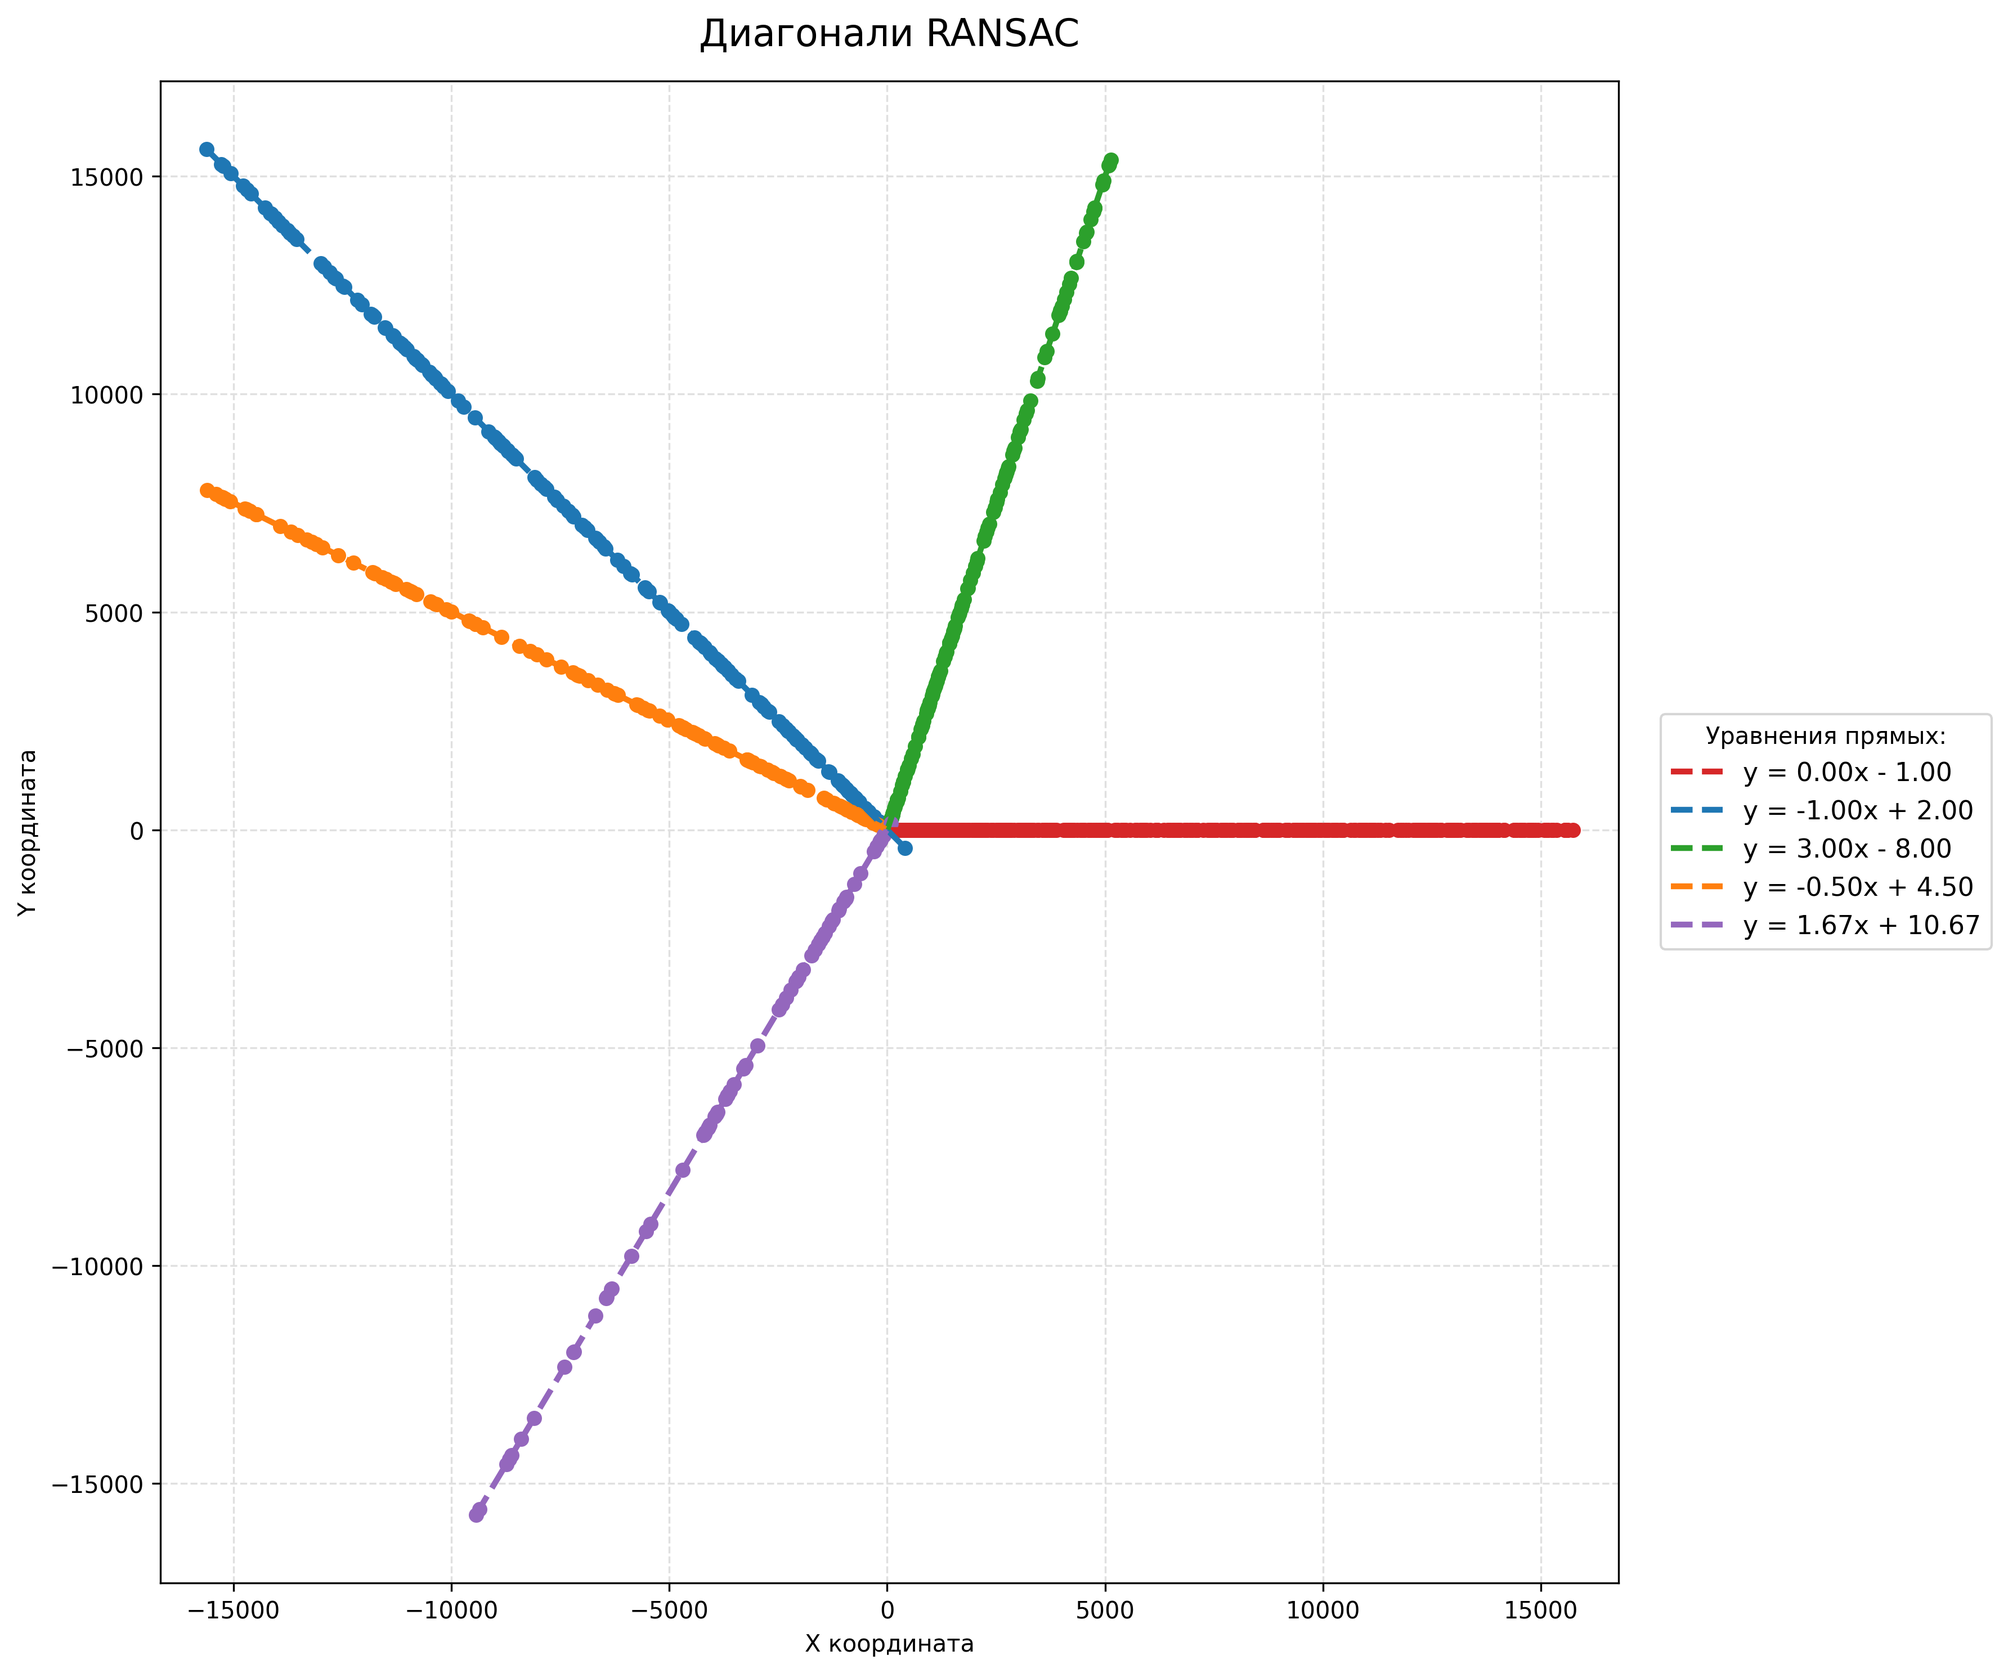
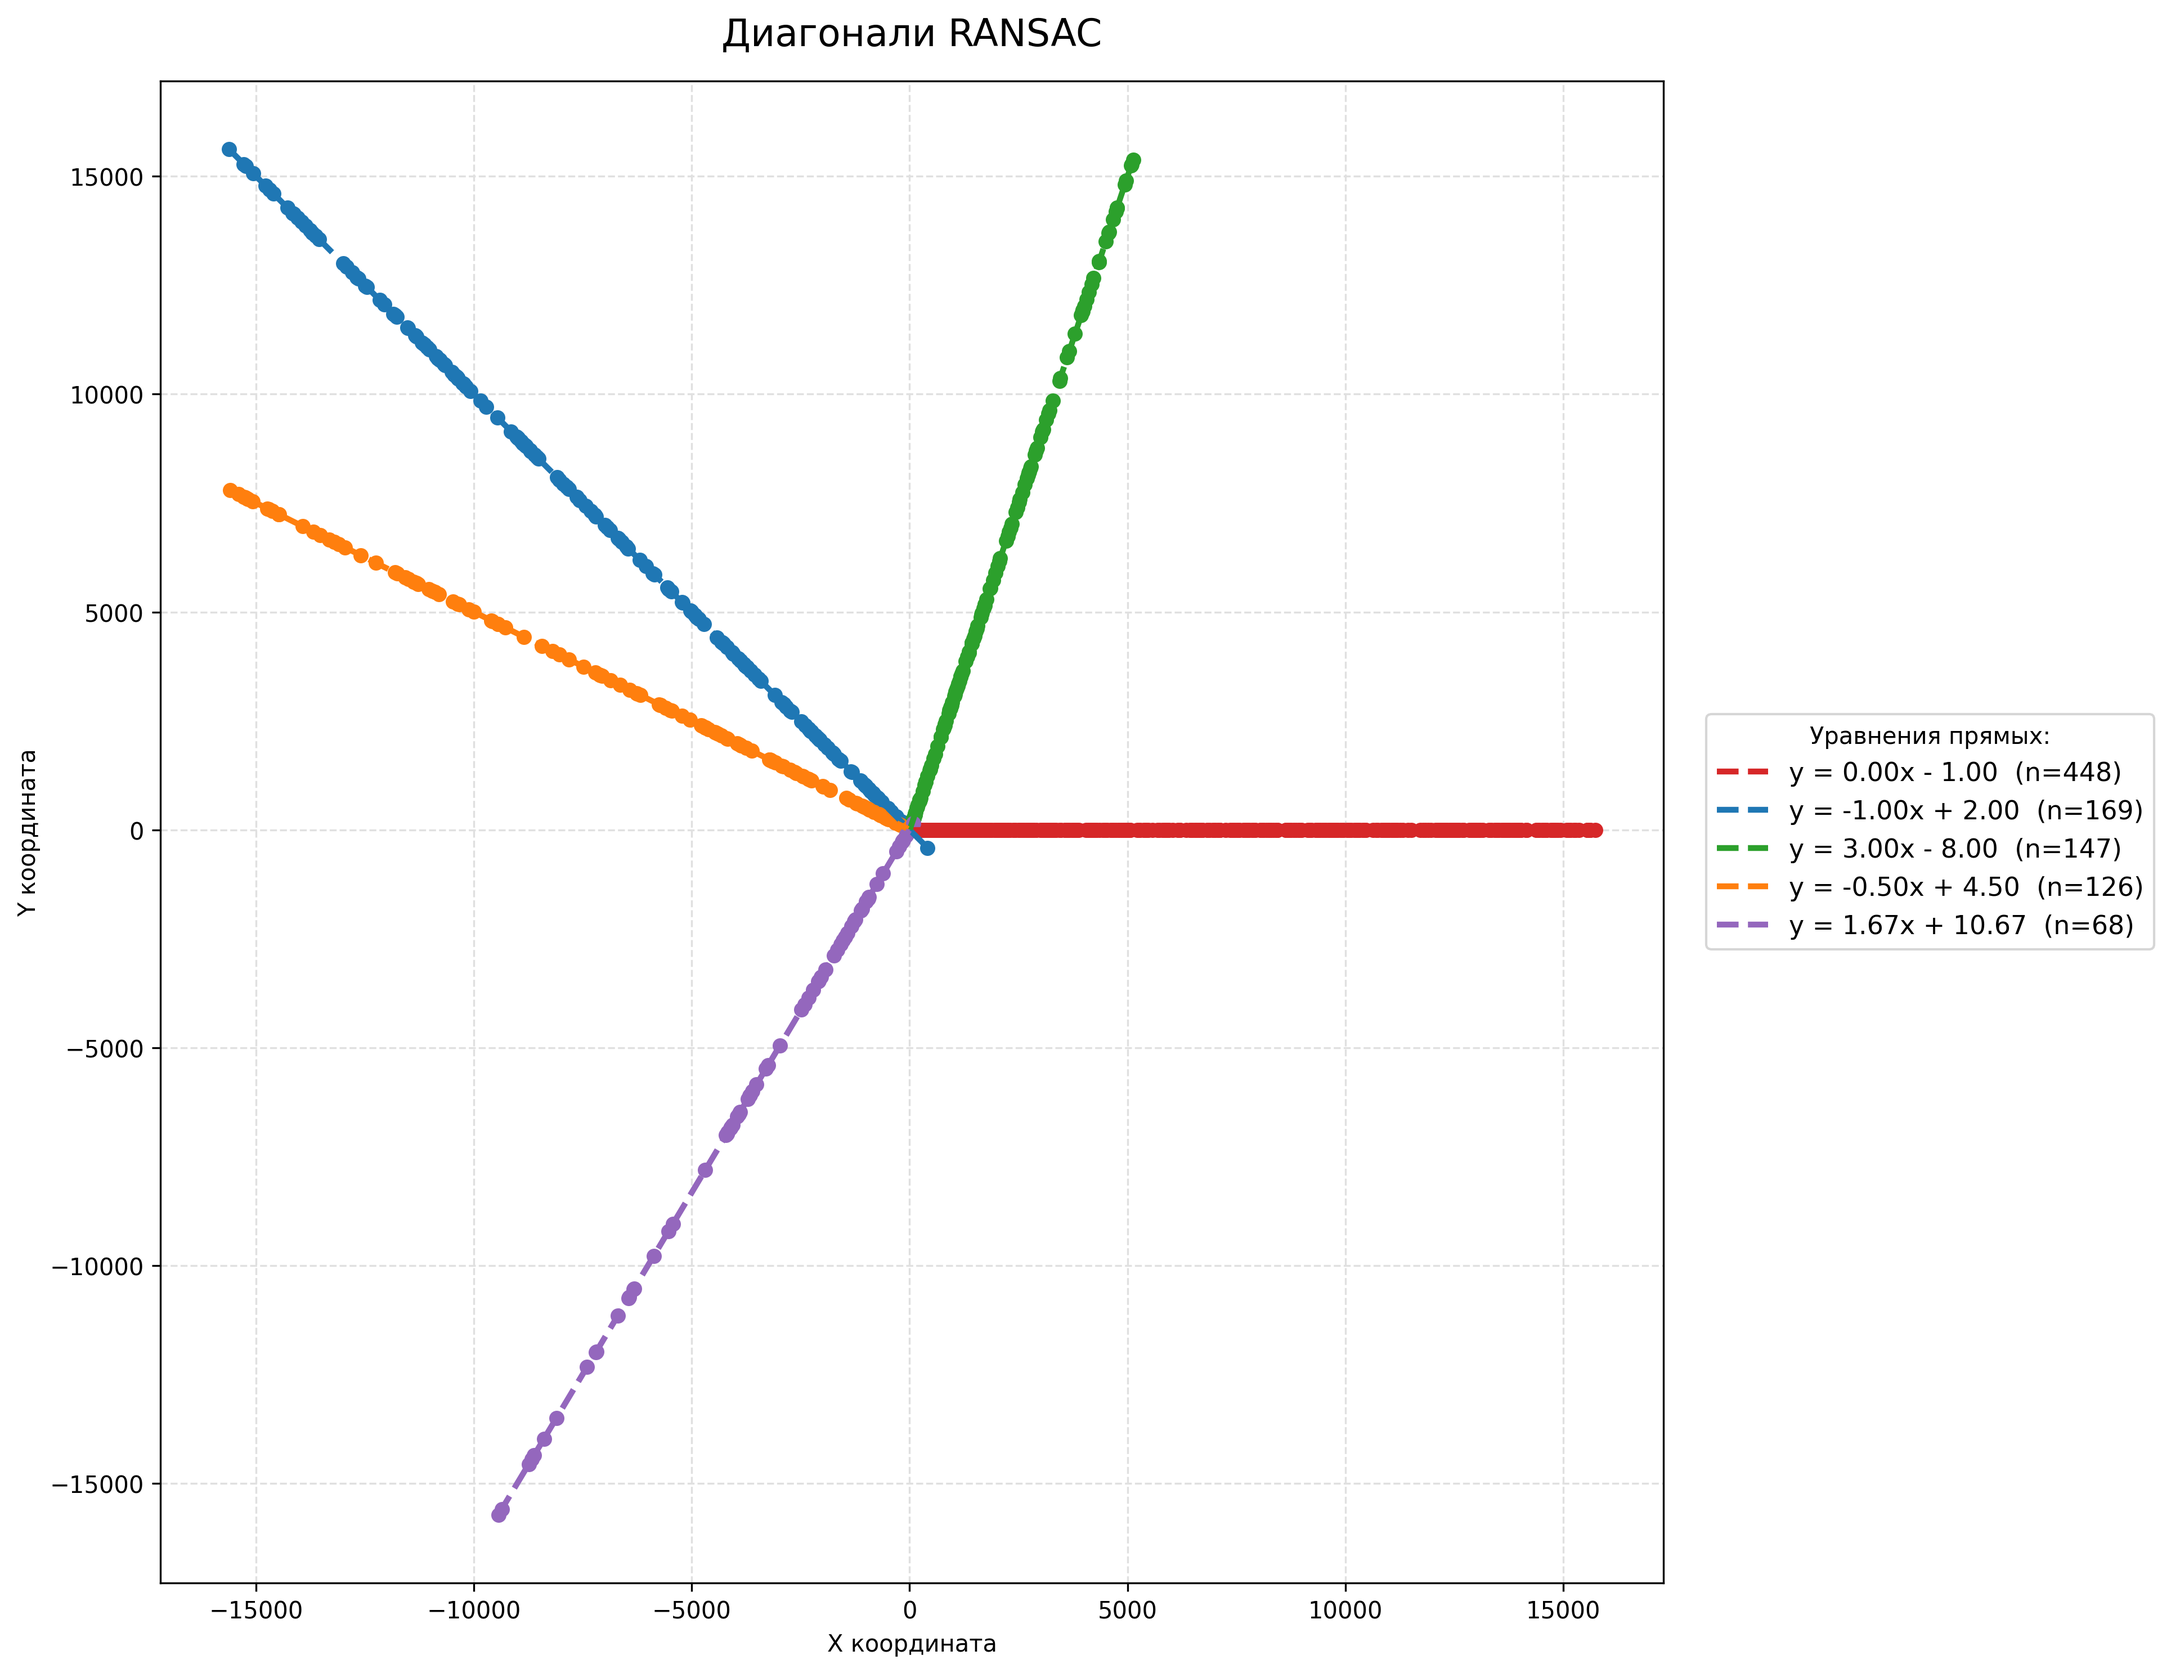
Change charts

diff --git a/src/tests_effectiveness_analysis.py b/src/tests_effectiveness_analysis.py
@@ -57,13 +57,13 @@ def run_efficiency_analysis(df_pseudo):
         types = types_raw.split('|')
 
         for t in types:
-            if not t or t in NON_TESTS:
+            if not t:
                 continue
             if t not in errors_map:
                 errors_map[t] = set()
             errors_map[t].add(num)
 
-    test_names = list(errors_map.keys())
+    test_names = [t for t in errors_map.keys() if t not in NON_TESTS]
     best_combos = {}
     print("Поиск оптимальных комбинаций...")
 
@@ -97,29 +97,29 @@ def run_efficiency_analysis(df_pseudo):
     for k in range(1, 6):
         data = best_combos[k]
         combo_str = " + ".join(data['combo'])
-        print(f"{k} тест(ов): {combo_str}")
+        print(f"Количество тестов: {k}")
+        print(f"Связка: {combo_str}")
         print(f"Ошибок: {data['errors']}, Стоимость: {data['cost']:.1f}\n")
 
-    print("Построение графика одиночных тестов...")
-    stats = [{'Test': t, 'Errors': len(e), 'Cost': get_cost(t)} for t, e in errors_map.items()]
+    print("Построение графика количества псевдопростых чисел...")
+    stats = [{'Test': t, 'Count': len(e)} for t, e in errors_map.items()]
     df_stats = pd.DataFrame(stats)
-    df_stats['Score'] = (df_stats['Errors'] + 1) * df_stats['Cost']
-    df_stats = df_stats.sort_values(by=['Errors', 'Cost'], ascending=[False, False])
+    df_stats = df_stats.sort_values(by='Count', ascending=False)
 
     fig1, ax1 = plt.subplots(figsize=(14, 10))
     fig1.patch.set_facecolor(BG_COLOR)
     ax1.set_facecolor(BG_COLOR)
-    bars = ax1.barh(df_stats['Test'], df_stats['Errors'], color='#4285F4', edgecolor='black', alpha=0.8)
+    bars = ax1.barh(df_stats['Test'], df_stats['Count'], color='#4285F4', edgecolor='black', alpha=0.8)
 
     for i, bar in enumerate(bars):
         width = bar.get_width()
-        ax1.text(width + df_stats['Errors'].max() * 0.01, bar.get_y() + bar.get_height() / 2,
-                 f"Ошибок: {int(width)}",
+        ax1.text(width + df_stats['Count'].max() * 0.01, bar.get_y() + bar.get_height() / 2,
+                 f"Псевдопростых: {int(width)}",
                  va='center', fontsize=10, color=TEXT_COLOR)
 
-    ax1.set_title("Эффективность одиночных тестов", fontsize=16, pad=15)
-    ax1.set_xlabel("Количество ошибок", fontsize=12)
-    ax1.set_xlim(0, df_stats['Errors'].max() * 1.15)
+    ax1.set_title("Количество псевдопростых чисел каждого типа", fontsize=16, pad=15)
+    ax1.set_xlabel("Количество псевдопростых чисел", fontsize=12)
+    ax1.set_xlim(0, df_stats['Count'].max() * 1.25)
     ax1.grid(True, axis='x', color='#e0e0e0', linestyle='--')
     plt.tight_layout()
     fig1.savefig(RANKING_PLOT_PATH, dpi=300)
@@ -171,6 +171,8 @@ def run_efficiency_analysis(df_pseudo):
     print("Построение графика стоимости тестов...")
     unique_costs = []
     for base_name, cost in TEST_COSTS.items():
+        if base_name in NON_TESTS:
+            continue
         if any(base_name in t for t in test_names):
             unique_costs.append({'Test': base_name, 'Cost': cost})
 

diff --git a/src/diagonals_analysis.py b/src/diagonals_analysis.py
@@ -25,7 +25,7 @@ RESIDUAL_THRESHOLD = 0.01
 
 BG_COLOR = 'white'
 TEXT_COLOR = 'black'
-NOISE_COLOR = '#d3d3d3'
+NOISE_COLOR = '#8c8c8c'
 LINE_COLORS = ['#d62728', '#1f77b4', '#2ca02c', '#ff7f0e', '#9467bd']
 
 
@@ -174,11 +174,20 @@ def run_ransac_analysis(df_pseudo):
             'line_x': line_x,
             'line_y': line_y,
             'color': color,
-            'label': equation
+            'label': f"{equation}  (n={inliers_count})"
         })
         remaining = remaining[~mask]
 
     print("Сохранение графиков...")
+
+    xlims, ylims = None, None
+    if lines_data:
+        all_x = np.concatenate([line['pts_x'] for line in lines_data])
+        all_y = np.concatenate([line['pts_y'] for line in lines_data])
+        pad_x = (all_x.max() - all_x.min()) * 0.05
+        pad_y = (all_y.max() - all_y.min()) * 0.05
+        xlims = (all_x.min() - pad_x, all_x.max() + pad_x)
+        ylims = (all_y.min() - pad_y, all_y.max() + pad_y)
 
     def setup_and_save_plot(show_noise, path):
         fig, ax = plt.subplots(figsize=(12, 10))
@@ -186,8 +195,7 @@ def run_ransac_analysis(df_pseudo):
         fig.patch.set_facecolor(BG_COLOR)
 
         if show_noise:
-            ax.scatter(df_pseudo['x_coord'], df_pseudo['y_coord'], color=NOISE_COLOR, alpha=0.3, s=15, zorder=1,
-                       label='Остальные псевдопростые')
+            ax.scatter(df_pseudo['x_coord'], df_pseudo['y_coord'], color=NOISE_COLOR, alpha=0.3, s=15, zorder=1, label='Остальные псевдопростые')
 
         for line in lines_data:
             ax.scatter(line['pts_x'], line['pts_y'], color=line['color'], s=30, zorder=3)
@@ -200,12 +208,16 @@ def run_ransac_analysis(df_pseudo):
         ax.tick_params(colors=TEXT_COLOR)
         ax.grid(True, color='#e0e0e0', linestyle='--', zorder=0)
 
+        if xlims and ylims:
+            ax.set_xlim(xlims)
+            ax.set_ylim(ylims)
+
         if len(ax.get_legend_handles_labels()[0]) > 0:
             legend_title = None if show_noise else "Уравнения прямых:"
             ax.legend(facecolor='white', edgecolor='#cccccc', labelcolor=TEXT_COLOR, loc='center left',
                       bbox_to_anchor=(1.02, 0.5), fontsize=11, title=legend_title)
 
-        ax.axis('equal')
+        ax.set_aspect('equal', adjustable='box')
         plt.tight_layout()
         fig.savefig(path, dpi=300, bbox_inches='tight')
         plt.close(fig)
